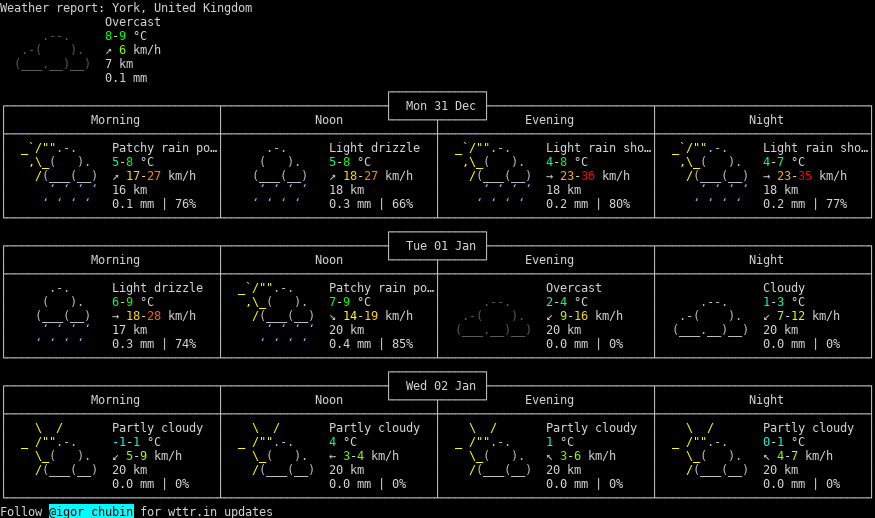
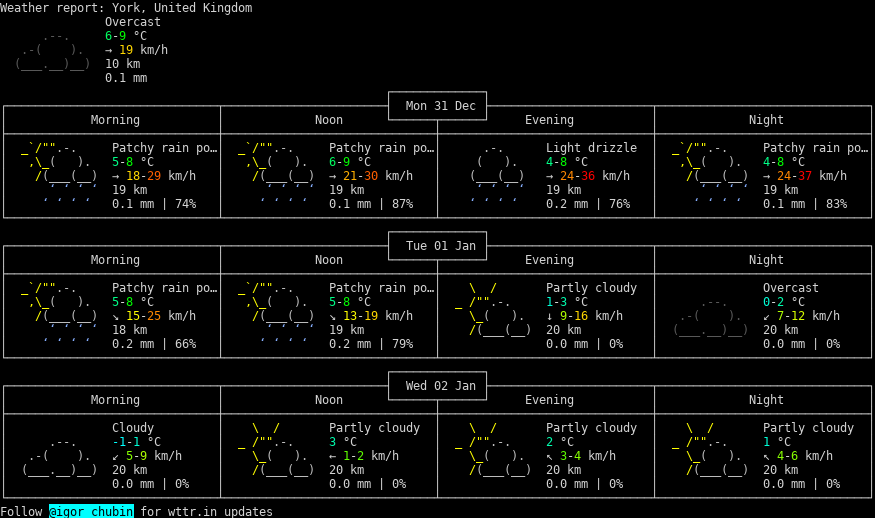
update Today's log:)

diff --git a/README.md b/README.md
@@ -238,3 +238,4 @@ Shell_scripting fun example during Linux OS class with my students
 * 29-12-2018 Sat PM  6:00 GMT   : 7-8°C (Beverley, United Kingdom)
 * 30-12-2018 Sun AM 12:00 GMT   : 4-6°C (Beverley, United Kingdom)
 * 31-12-2018 Mon AM 12:00 GMT   : 7-9°C (Beverley, United Kingdom)
+* 31-12-2018 Mon PM  6:00 GMT   : 7-10°C (Beverley, United Kingdom)

diff --git a/weather.md b/weather.md
@@ -907,3 +907,7 @@
 
 ![](img/31-12-2018.png)
 
+31-12-2018
+
+![](img/31-12-2018.png)
+
